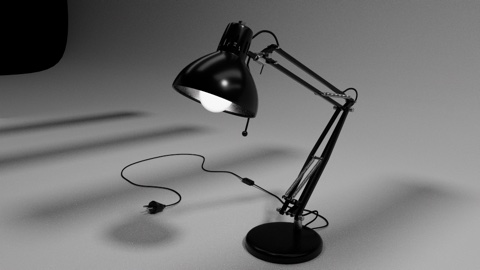
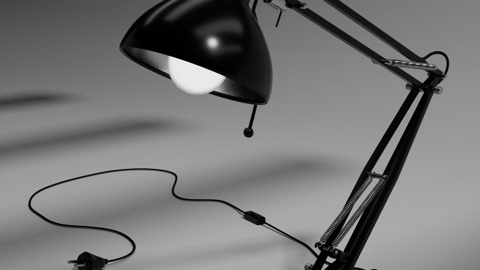
Little Lamp thumbnail: re-rendered with the emitter-in-glass conversion and the 16:9 fill framing

diff --git a/Examples/Thumbnails/README.md b/Examples/Thumbnails/README.md
@@ -47,7 +47,7 @@ Each of these images is an adapted work: a render of a scene from [Benedikt Bitt
 | `grey-white-room.jpg` | The Grey & White Room | © Wig42 | [CC BY 3.0](https://creativecommons.org/licenses/by/3.0/) |
 | `modern-hall.jpg` | Modern Hall | © NewSee2l035 | [CC BY 3.0](https://creativecommons.org/licenses/by/3.0/) |
 
-Changes: the scene files were opened through the Mitsuba importer, which translates their Mitsuba materials to OpenPBR and keeps the scene's own camera, area emitters and path depth, and rendered at 960 × 540 with the showcase shot's view. Five scenes have square films (the Veach Bidir Room, Contemporary Bathroom, Water Caustic, Little Lamp and Modern Hall): at 16:9 the thumbnail keeps the camera's horizontal field of view, so its vertical field of view shrinks and the image is the horizontal band of the square frame that 16:9 covers (the vertical field of view 20.1° for the Veach Bidir Room, 32.6° for Contemporary Bathroom, 11.0° for Water Caustic and 43.0° for Modern Hall); keeping the vertical one showed the model with black bars to its sides. `lamp.jpg` still shows the earlier framing (the camera's vertical field of view) until it is re-rendered, which uses this framing. Water Caustic uses light tracing + photons caustics. Rendered on 2026-11-12 with 256 spp (the Veach Bidir Room 1,024 spp), spectral transport and no denoiser, so the images keep some grain, Contemporary Bathroom and Water Caustic most.
+Changes: the scene files were opened through the Mitsuba importer, which translates their Mitsuba materials to OpenPBR and keeps the scene's own camera, area emitters and path depth, and rendered at 960 × 540 with the showcase shot's view. Five scenes have square films (the Veach Bidir Room, Contemporary Bathroom, Water Caustic, Little Lamp and Modern Hall): at 16:9 the thumbnail keeps the camera's horizontal field of view, so its vertical field of view shrinks and the image is the horizontal band of the square frame that 16:9 covers (the vertical field of view 20.1° for the Veach Bidir Room and Little Lamp, 32.6° for Contemporary Bathroom, 11.0° for Water Caustic and 43.0° for Modern Hall); keeping the vertical one showed the model with black bars to its sides. Water Caustic uses light tracing + photons caustics. Rendered on 2026-11-12 with 256 spp (the Veach Bidir Room 1,024 spp), spectral transport and no denoiser, so the images keep some grain, Contemporary Bathroom and Water Caustic most.
 
 ## Withheld
 
